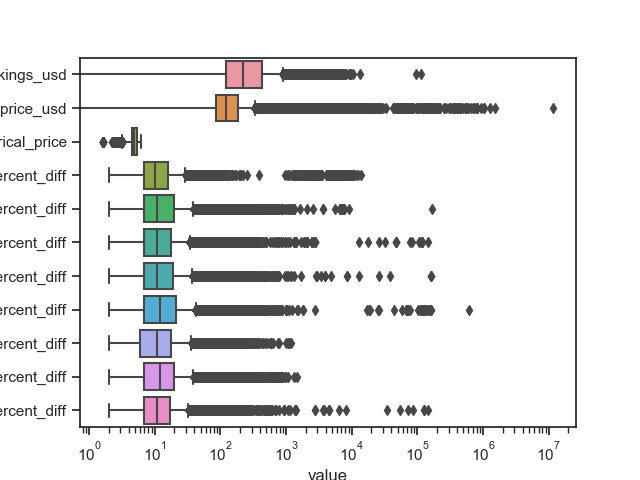
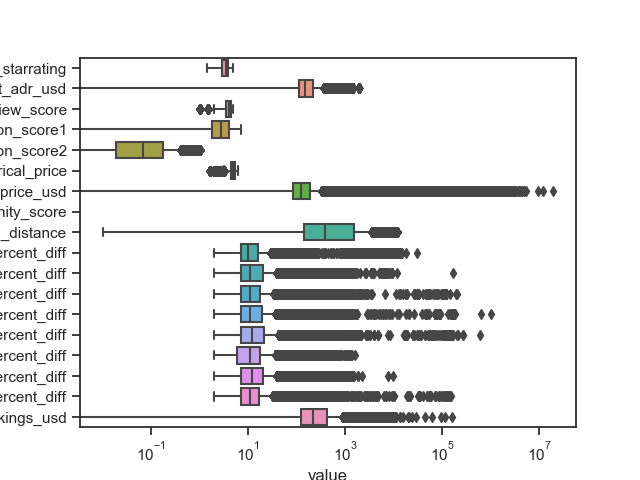
outlier plot/competition plot ran over whole dataset

diff --git a/NA_handling.py b/NA_handling.py
@@ -115,8 +115,6 @@ def try_imputing(data, feature):
         print("Unknown feature type.")
 
 
-
-
 def scatters(data, feature_1, feature_2):
 
     """
@@ -132,6 +130,8 @@ def scatters(data, feature_1, feature_2):
     mask_2 = data[feature_2].notna()
     subset_1 = data[feature_1].loc[mask_1].loc[mask_2]
     subset_2 = data[feature_2].loc[mask_1].loc[mask_2]
+    print(subset_1)
+    print(subset_2)
 
     cor = stats.pearsonr(subset_1, subset_2 )
     print(f"Correlation {feature_1},{feature_2}: {cor}")
@@ -153,7 +153,7 @@ def save_corr_mat(data):
     corr_mat.to_csv("corr_mat.csv")
 
 
-def outlier_plot(data, features = [], to_save=False, name=None):
+def outlier_plot(data, features=[], to_save=False, name=None):
     """
     save/show boxplot for numeric features
     :param data: pandas df
@@ -167,7 +167,9 @@ def outlier_plot(data, features = [], to_save=False, name=None):
     plt.clf()
 
     if not features:
-        cols_exlude = ["srch_id", "date_time", "site_id", "prop_id", "visitor_location_country_id", "prop_country_id"]
+        cols_exlude = ["srch_id", "date_time", "site_id", "prop_id", "visitor_location_country_id", "prop_country_id",
+                       "comp1_rate", "comp2_rate", "comp3_rate", "comp4_rate", "comp5_rate", "comp6_rate", "comp7_rate", "comp8_rate",
+                       "comp1_inv", "comp2_inv", "comp3_inv", "comp4_inv", "comp5_inv","comp6_inv","comp7_inv", "comp8_inv"]
         for col in data.columns:
             if data[col].dtype == "float64" and col not in cols_exlude:
                 features.append(col)
@@ -182,13 +184,44 @@ def outlier_plot(data, features = [], to_save=False, name=None):
         plt.show()
 
 
+def competition_plot(data, to_save=False, name=None):
+    """
+    combine all competitor rate information into one feature
+    plot click and bool proportions depending on competition
+    :param data: pandas df
+    :param to_save: bool
+    :param name: name of plot if to_save=True
+    :return: none
+    """
+
+    competition = data[["comp1_rate", "comp2_rate", "comp3_rate", "comp4_rate", "comp5_rate", "comp6_rate", "comp7_rate", "comp8_rate"]]
+    user_beh = data[["booking_bool", "click_bool"]]
+    user_beh["comp_rate"] = [1 if row > 0 else row for row in competition.sum(axis=1)]
+    user_beh["comp_rate"] = [-1 if row < 0 else user_beh["comp_rate"].loc[idx] for idx,row in enumerate(competition.sum(axis=1))]
+
+    melted = pd.melt(user_beh, id_vars="comp_rate", value_vars=["click_bool", "booking_bool"])
+
+    plt.clf()
+    ax = sns.barplot(x="comp_rate", y="value", hue="variable", data=melted, capsize=.15, palette="deep")
+    ax.set(xticklabels=["More expensive", "Same Price", "Cheaper"])
+    ax.set(ylabel="Proportion clicked/booked")
+    ax.set(xlabel=[])
+    if to_save:
+        plt.savefig(name)
+    else:
+        plt.show()
+
+
 if __name__ == "__main__":
 
-    data = pd.read_csv("C:/Users/Frede/Dropbox/Master/DM/Assignments/2/DM2/training_set_VU_DM.csv", nrows=1_000_000)
+    data = pd.read_csv("C:/Users/Frede/Dropbox/Master/DM/Assignments/2/DM2/training_set_VU_DM.csv")
 
 
-    features = ["gross_bookings_usd", "price_usd", "prop_log_historical_price", "comp1_rate_percent_diff", "comp2_rate_percent_diff",
-                "comp3_rate_percent_diff", "comp4_rate_percent_diff", "comp5_rate_percent_diff", "comp6_rate_percent_diff",
-                "comp7_rate_percent_diff", "comp8_rate_percent_diff",]
+    #features = ["gross_bookings_usd", "price_usd", "prop_log_historical_price", "comp1_rate_percent_diff", "comp2_rate_percent_diff",
+    #            "comp3_rate_percent_diff", "comp4_rate_percent_diff", "comp5_rate_percent_diff", "comp6_rate_percent_diff",
+    #            "comp7_rate_percent_diff", "comp8_rate_percent_diff",]
 
-    outlier_plot(data, features, to_save=True, name="outlier_plot.png")
+    outlier_plot(data, to_save=True, name="outlier_plot.png")
+
+    competition_plot(data, to_save=True, name="competition_plot.png")
+
